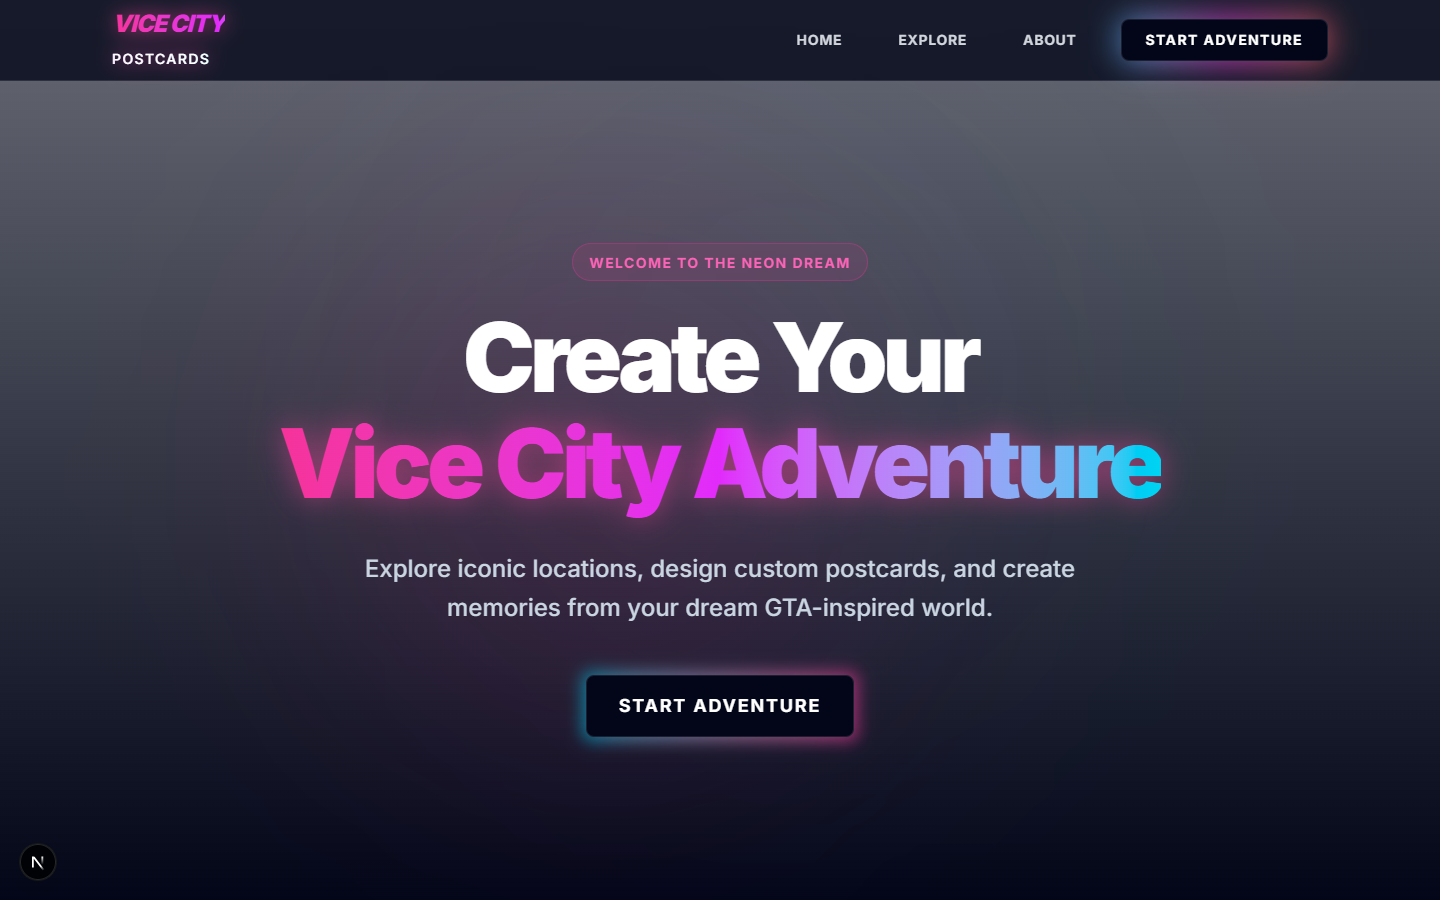
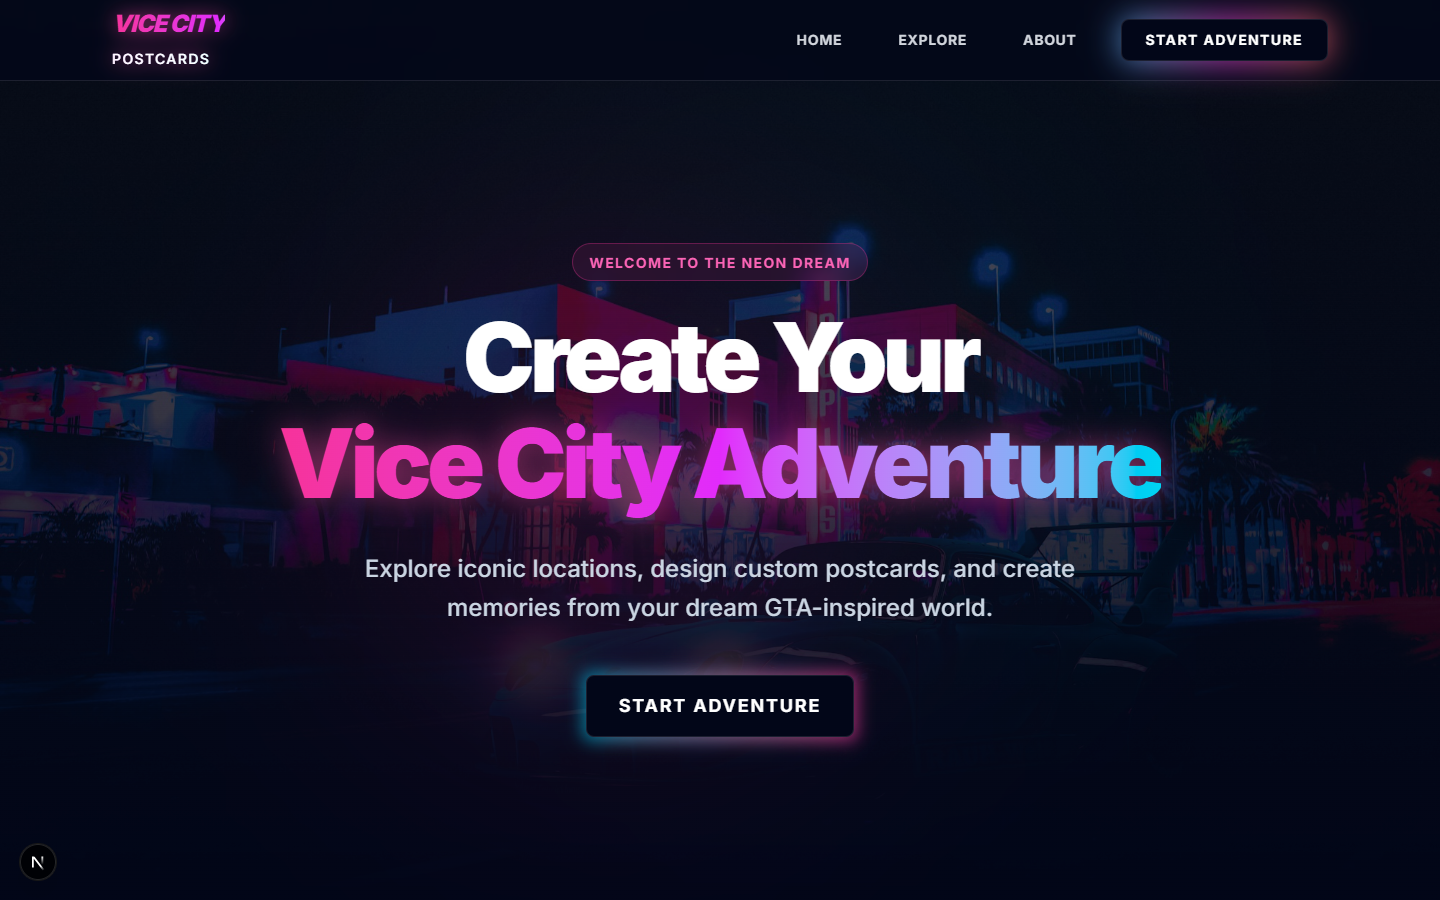
Fix live-site issues found in deployment check
- Landing hero: the Unsplash background photo was dead (blocked by the
  browser, hero showed only a flat gradient). Self-host a neon Miami
  photo at /hero-bg.jpg so it can't break again.
- Navbar: "About" linked to a non-existent /about (404) - now scrolls to
  the landing page's How It Works section. "Start Adventure" now goes to
  /explore like the hero button instead of an empty /postcard state.
- Footer: GitHub icon now links to this repo instead of github.com.
- Save Draft never restored: the draft loader relied on the editor ref,
  which isn't set yet when the editor's onLoad fires, so it silently did
  nothing. It now uses the editor instance passed to onLoad. Drafts are
  tagged with their location (so one location's draft can't overwrite
  another's photo) and cleared once the postcard is exported.

diff --git a/frontend/src/features/editor/hooks/useEditor.ts b/frontend/src/features/editor/hooks/useEditor.ts
@@ -3,11 +3,11 @@ import { useAppStore } from '@/store/useAppStore';
 import { useCollectionStore } from '@/store/useCollectionStore';
 import { editorService } from '@/features/editor/services/editorService';
 import { useRouter } from 'next/navigation';
-import type { ImageEditorRef } from '@unlayer/react-image-editor';
+import type { ImageEditorInstance, ImageEditorRef } from '@unlayer/react-image-editor';
 
 export function useEditor() {
   const editorRef = useRef<ImageEditorRef | null>(null);
-  const { setExportedPostcard, setEditorDraft, editorDraft, postcardTitle, postcardMessage, selectedTheme, selectedLocation } = useAppStore();
+  const { setExportedPostcard, setEditorDraft, postcardTitle, postcardMessage, selectedTheme, selectedLocation } = useAppStore();
   const { savePostcard } = useCollectionStore();
   const router = useRouter();
 
@@ -25,6 +25,9 @@ export function useEditor() {
           theme: selectedTheme,
           imageUrl: dataUrl
         });
+        // The postcard is finished — drop its draft so it isn't restored next time.
+        editorService.clearDraft();
+        setEditorDraft(null);
         // Navigate to success
         router.push('/success');
       }
@@ -34,18 +37,21 @@ export function useEditor() {
   const saveDraft = () => {
     if (editorRef.current && editorRef.current.editor) {
       const dataUrl = editorRef.current.editor.getImage();
-      if (dataUrl) {
+      if (dataUrl && selectedLocation) {
         setEditorDraft(dataUrl);
-        editorService.saveDraft(dataUrl);
+        editorService.saveDraft(dataUrl, selectedLocation.id);
         console.log("Draft saved successfully.");
       }
     }
   };
 
-  const loadDraft = () => {
-    const draft = editorService.loadDraft() || editorDraft;
-    if (draft && editorRef.current && editorRef.current.editor) {
-      editorRef.current.editor.reset(draft);
+  // Called by the editor's onLoad with the live editor instance — the ref is
+  // not populated yet at that moment, so the instance is passed in directly.
+  const loadDraft = (editor: ImageEditorInstance) => {
+    if (!selectedLocation) return;
+    const draft = editorService.loadDraft(selectedLocation.id);
+    if (draft) {
+      editor.reset(draft);
       console.log("Draft loaded successfully.");
     }
   };

diff --git a/frontend/src/features/editor/services/editorService.ts b/frontend/src/features/editor/services/editorService.ts
@@ -1,25 +1,52 @@
+const DRAFT_KEY = 'vice_city_postcard_draft';
+
+// A draft belongs to the location it was created for, so it is never
+// restored on top of a different location's photo.
+interface StoredDraft {
+  locationId: string;
+  image: string;
+}
+
+function isStoredDraft(value: unknown): value is StoredDraft {
+  if (typeof value !== 'object' || value === null) return false;
+  const candidate = value as Record<string, unknown>;
+  return typeof candidate.locationId === 'string' && typeof candidate.image === 'string';
+}
+
+// In-session fallback for when localStorage is unavailable or full
+// (exported images are large data URLs).
+let memoryDraft: StoredDraft | null = null;
+
 export const editorService = {
-  saveDraft: (draft: string) => {
+  saveDraft: (image: string, locationId: string) => {
+    const draft: StoredDraft = { locationId, image };
+    memoryDraft = draft;
     try {
-      localStorage.setItem('vice_city_postcard_draft', JSON.stringify(draft));
+      localStorage.setItem(DRAFT_KEY, JSON.stringify(draft));
     } catch (e) {
       console.error('Failed to save draft', e);
     }
   },
 
-  loadDraft: (): string | null => {
+  loadDraft: (locationId: string): string | null => {
     try {
-      const draft = localStorage.getItem('vice_city_postcard_draft');
-      return draft ? JSON.parse(draft) : null;
+      const raw = localStorage.getItem(DRAFT_KEY);
+      if (raw) {
+        const parsed: unknown = JSON.parse(raw);
+        if (isStoredDraft(parsed) && parsed.locationId === locationId) {
+          return parsed.image;
+        }
+      }
     } catch (e) {
       console.error('Failed to load draft', e);
-      return null;
     }
+    return memoryDraft?.locationId === locationId ? memoryDraft.image : null;
   },
 
   clearDraft: () => {
+    memoryDraft = null;
     try {
-      localStorage.removeItem('vice_city_postcard_draft');
+      localStorage.removeItem(DRAFT_KEY);
     } catch (e) {
       console.error('Failed to clear draft', e);
     }

diff --git a/frontend/src/components/layout/Footer.tsx b/frontend/src/components/layout/Footer.tsx
@@ -18,7 +18,7 @@ export function Footer() {
           </div>
           
           <div className="flex space-x-6">
-            <Link href="https://github.com" target="_blank" className="text-slate-400 hover:text-white transition-colors">
+            <Link href="https://github.com/jagga-123/Voice-city-postcards" target="_blank" rel="noopener noreferrer" className="text-slate-400 hover:text-white transition-colors">
               <span className="sr-only">GitHub</span>
               <svg className="h-6 w-6" fill="currentColor" viewBox="0 0 24 24" aria-hidden="true">
                 <path fillRule="evenodd" d="M12 2C6.477 2 2 6.484 2 12.017c0 4.425 2.865 8.18 6.839 9.504.5.092.682-.217.682-.483 0-.237-.008-.868-.013-1.703-2.782.605-3.369-1.343-3.369-1.343-.454-1.158-1.11-1.466-1.11-1.466-.908-.62.069-.608.069-.608 1.003.07 1.531 1.032 1.531 1.032.892 1.53 2.341 1.088 2.91.832.092-.647.35-1.088.636-1.338-2.22-.253-4.555-1.113-4.555-4.951 0-1.093.39-1.988 1.029-2.688-.103-.253-.446-1.272.098-2.65 0 0 .84-.27 2.75 1.026A9.564 9.564 0 0112 6.844c.85.004 1.705.115 2.504.337 1.909-1.296 2.747-1.027 2.747-1.027.546 1.379.202 2.398.1 2.651.64.7 1.028 1.595 1.028 2.688 0 3.848-2.339 4.695-4.566 4.943.359.309.678.92.678 1.855 0 1.338-.012 2.419-.012 2.747 0 .268.18.58.688.482A10.019 10.019 0 0022 12.017C22 6.484 17.522 2 12 2z" clipRule="evenodd" />

diff --git a/frontend/src/features/editor/components/EditorCanvas.tsx b/frontend/src/features/editor/components/EditorCanvas.tsx
@@ -4,7 +4,7 @@ import type { RefObject } from 'react';
 import { useAppStore } from '@/store/useAppStore';
 // Dynamic import is used for the editor to prevent SSR issues with canvas/window
 import dynamic from 'next/dynamic';
-import type { ImageEditorRef } from '@unlayer/react-image-editor';
+import type { ImageEditorInstance, ImageEditorRef } from '@unlayer/react-image-editor';
 
 const ImageEditor = dynamic(() => import('@unlayer/react-image-editor'), { ssr: false });
 
@@ -13,15 +13,15 @@ const UNLAYER_PROJECT_ID = Number(process.env.NEXT_PUBLIC_UNLAYER_PROJECT_ID) ||
 
 interface EditorCanvasProps {
   editorRef: RefObject<ImageEditorRef | null>;
-  onLoadDraft: () => void;
+  onLoadDraft: (editor: ImageEditorInstance) => void;
 }
 
 export function EditorCanvas({ editorRef, onLoadDraft }: EditorCanvasProps) {
   const { selectedLocation, postcardTitle, postcardMessage } = useAppStore();
 
-  const handleEditorLoad = () => {
+  const handleEditorLoad = (editor: ImageEditorInstance) => {
     // Attempt to load draft first
-    onLoadDraft();
+    onLoadDraft(editor);
 
     // In a real integration, this is where we would use the editorRef to programmatically
     // inject the postcardTitle, postcardMessage, and background image (selectedLocation.image).

diff --git a/frontend/src/components/layout/Navbar.tsx b/frontend/src/components/layout/Navbar.tsx
@@ -11,7 +11,7 @@ export function Navbar() {
   const links = [
     { name: 'Home', href: '/' },
     { name: 'Explore', href: '/explore' },
-    { name: 'About', href: '/about' },
+    { name: 'About', href: '/#how-it-works' },
   ];
 
   return (
@@ -37,7 +37,7 @@ export function Navbar() {
                 </Link>
               ))}
               <Link
-                href="/postcard"
+                href="/explore"
                 className="relative inline-flex group"
               >
                 <div className="absolute transition-all duration-1000 opacity-70 -inset-px bg-gradient-to-r from-[#44BCFF] via-[#FF44EC] to-[#FF675E] rounded-lg blur-lg group-hover:opacity-100 group-hover:-inset-1 group-hover:duration-200 animate-tilt"></div>
@@ -81,7 +81,7 @@ export function Navbar() {
                 </Link>
               ))}
               <Link
-                href="/postcard"
+                href="/explore"
                 onClick={() => setIsOpen(false)}
                 className="block w-full text-center mt-4 px-6 py-3 text-base font-bold text-white bg-gradient-to-r from-pink-600 to-cyan-600 rounded-lg shadow-[0_0_15px_rgba(236,72,153,0.5)] uppercase tracking-wider"
               >

diff --git a/frontend/src/features/landing/components/HeroSection.tsx b/frontend/src/features/landing/components/HeroSection.tsx
@@ -8,7 +8,7 @@ export function HeroSection() {
     <section className="relative min-h-screen flex items-center justify-center overflow-hidden pt-20">
       {/* Background Image & Overlays */}
       <div 
-        className="absolute inset-0 bg-[url('https://images.unsplash.com/photo-1601058091887-321ab171f114?q=80&w=2000&auto=format&fit=crop')] bg-cover bg-center"
+        className="absolute inset-0 bg-[url('/hero-bg.jpg')] bg-cover bg-center"
       />
       <div className="absolute inset-0 bg-gradient-to-b from-slate-950/60 via-slate-950/80 to-slate-950" />
       

diff --git a/frontend/src/features/landing/components/HowItWorksSection.tsx b/frontend/src/features/landing/components/HowItWorksSection.tsx
@@ -27,7 +27,7 @@ const steps = [
 
 export function HowItWorksSection() {
   return (
-    <section className="py-24 bg-slate-900 relative">
+    <section id="how-it-works" className="py-24 bg-slate-900 relative scroll-mt-20">
       <div className="max-w-7xl mx-auto px-4 sm:px-6 lg:px-8">
         <div className="text-center mb-16">
           <motion.h2 
